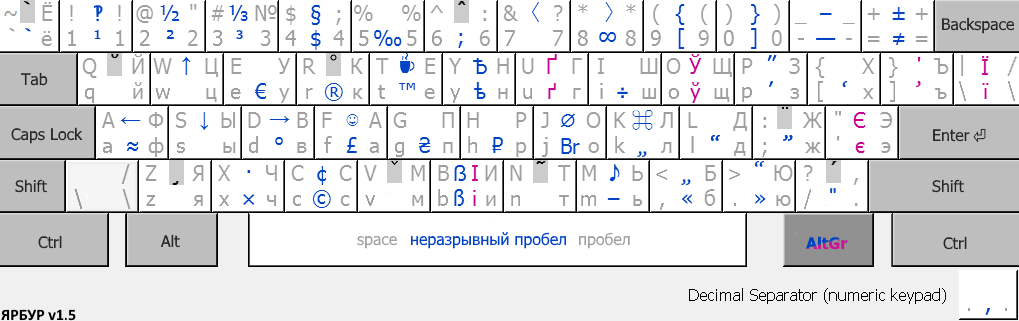
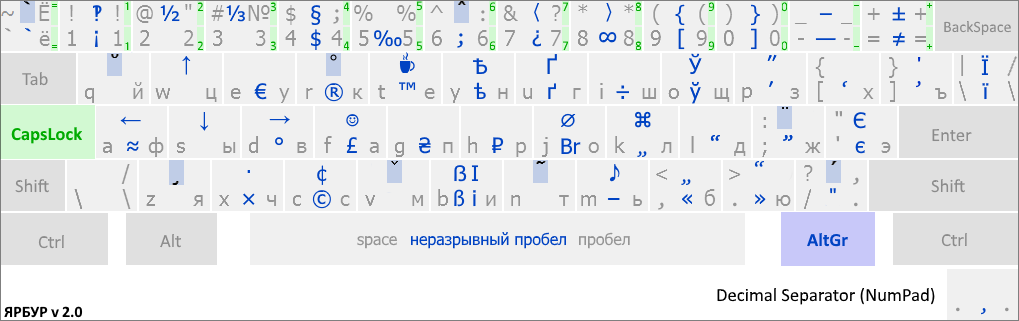
yarbur 2.0 & all date update

diff --git a/_includes/lightbox.html b/_includes/lightbox.html
@@ -14,9 +14,9 @@
 {% endif %}
 
 {% if image.thumb %}
-src="{{ page.imgfolder }}{{ image.thumb }}" alt="{{ image.text }} alt">
+src="{{ page.imgfolder }}{{ image.thumb }}" alt="{{ image.text }}">
 {% else %}
-src="{{ page.imgfolder }}{{ image.name }}" alt="{{ image.text }} alt">
+src="{{ page.imgfolder }}{{ image.name }}" alt="{{ image.text }}">
 {% endif %}
 </a>
 {% endif %}

diff --git a/_collection/yarbur.md b/_collection/yarbur.md
@@ -4,7 +4,7 @@ title: Раскладка клавиатуры ЯРБУР
 
 post_on_sidebar: true
 
-date: 2016-09-17
+date: 2017-03-02
 
 tag:
   - keyboard layout
@@ -15,7 +15,7 @@ tag:
 category:
   - projects
 
-version: 1.5
+version: 2.0
 
 
 
@@ -41,28 +41,29 @@ permalink: yarbur/
 <br>
 Символы, доступные через правый Alt (`AltGr`) называют третьим слоем, а через `AltGr` + `Shift` — четвёртым.
 
-* 1 слой — **н** = `н`
-* 2 слой — **Н** = `Shift` + `н`
-* 3 слой — **ѣ** = `AltGr` + `н`
-* 4 слой — **Ѣ** = `AltGr` + `Shift` + `н`
+* 1 слой — **с** = `с`
+* 2 слой — **С** = `Shift` + `с`
+* 3 слой — **©** = `AltGr` + `c`
+* 4 слой — **¢** = `AltGr` + `Shift` + `c`
 
 Раскладка содержит Тире (**—** = `AltGr` + `-`), символ рубля (**₽** = `AltGr` + `р`), «кавычки», знак градуса, знак копирайта и многие другие.
 
-Отдельным цветом на полной схеме раскладок выделены белорусские и украинские буквы: **Ў**, **І**, **Ґ**, **Ї**, **Є** и апострофы. Присутствуют символы гривны и белорусского рубля:
+Раскладка содержит белорусские и украинские буквы: **Ў**, **І**, **Ґ**, **Ї**, **Є** и апостроф. Присутствуют символы гривны и белорусского рубля:
 **₴**, **Br**.
+
+Подстрочные₄₊₅ и надстрочные⁴⁺⁵ цифры вводятся через `CapsLock`:
+
+* 5 слой — **₈** = `8` (при включённом `CapsLock`)
+* 6 слой — **⁸** = `Shift` + `8` (при включённом `CapsLock`)
 
 ### Как установить?
 
- * Для установки использовать *Install-Yarbur-En.exe* и *Install-Yarbur-Ru.exe*.<br>
-Затем в «настройках способов ввода» (*Панель управления/Язык* для Win10) можно удалять стандартные русскую и английскую раскладки. Перезагрузиться.
+ * Для установки последовательно запустить *Install-Yarbur-En.exe* и *Install-Yarbur-Ru.exe*.  
+Затем в «настройках способов ввода» (*Панель управления/Язык* для Win10) можно удалять стандартные русскую и английскую раскладки. **Перезагрузиться**.
  * Для удаления, сначала убрать из «настроек способов ввода», затем удалить из «установка и удаление программ» (*Панель управления/Программы и компоненты* для Win10).
- * Для обновления на новую версию сначала нужно удалить старую, и после установки новой версии не забыть перезагрузиться.
 
-За основу взята [**Типографская раскладка Ильи Бирмана v3.4**](http://ilyabirman.ru/projects/typography-layout/), на которую были добавлены белорусские и украинские буквы, и прочие полезные символы.
+За основу взята [**Типографская раскладка v3.4**](http://ilyabirman.ru/projects/typography-layout/), на которую были добавлены белорусские и украинские буквы, и прочие полезные символы.
 При помощи [**The Microsoft Keyboard Layout Creator**](https://msdn.microsoft.com/keyboardlayouts.aspx) можно создать свою или изменить эту раскладку.
-
-Все действия выполняются на свой страх и риск.
-
 
 ### Про апостроф и кавычки
 
@@ -70,7 +71,7 @@ permalink: yarbur/
 
 В качестве кавычек рекомендуется использовать «кавычки-ёлочки» ( `AltGr` + `<` и `AltGr` + `>`).
 
-Подробнее про все апострофы, одинарные и двойные кавычки, которые есть на раскладке, можно [**узнать тут**]({% link _collection/quotation-mark.md %}).
+Подробнее про апострофы, одинарные и двойные кавычки [**тут**]({% link _collection/quotation-mark.md %}).
 
 
 ### Про диакритические знаки
@@ -84,6 +85,13 @@ permalink: yarbur/
 Таких предопределённых букв [немного](https://github.com/yalov/yarbur-keyboard-layouts/blob/master/diacritical_mark.txt), и этот способ может не сработать. Если вам нужно просто поставить ударение, используйте первый способ. Если вы пишете Schrödinger, то второй.
 
 ### Про десятичный разделитель
-Обычно десятичный разделитель на цифровом блоке в русской раскладке — запятая, в английской — точка и нарисована на клавише тоже точка. Из-за этого возникает много путаницы.
+Обычно десятичный разделитель на цифровом блоке в русской раскладке — запятая, хотя в английской — точка и нарисована на клавише тоже точка. Из-за этого возникает много путаницы.
 
 Кто-то скажет, что в русской типографике исторически дробная часть отделяется запятой. Это верно, но, во-первых, многие русские авторы уже используют точку, и, во-вторых, ip-адрес и версия программы в любом случае разделяется именно точкой. Поэтому в раскладках клавиатуры ЯРБУР (и в русской, и в английской) **в качестве десятичного разделителя используется точка**, а в третьем слое (`AltGr`) — запятая.
+
+### Про CapsLock
+Начиная с версии 2.0 помимо `AltGr` перегружается ещё и `CapsLock`. Можно сказать, что это пятый и шестой слой (шестой — с `Shift`).
+
+На пятом слое находятся подстрочные  **₌₁₂₃₄₅₆₇₈₉₀₋₊**, на шестом — надстрочные **⁼¹²³⁴⁵⁶⁷⁸⁹⁰⁻⁺**. Буквы ведут себя КАК ОБЫЧНО.
+
+На третий и четвёртый слой клавиша `CapsLock` не влияет, т.е. © = `AltGr` + `с` = `CapsLock`, `AltGr` + `с`.

diff --git a/gem-versions.md b/gem-versions.md
@@ -1,7 +1,7 @@
 ---
 layout: page
-title: Dependency of github-pages gem
-description: "List dependency versions of GitHub Pages gem"
+title: Dependencies of github-pages gem
+description: "Dependencies of github-pages gem"
 ---
 <br>
 

diff --git a/_collection/work-schedule.md b/_collection/work-schedule.md
@@ -3,7 +3,7 @@ layout: post
 title: Work Schedule
 
 post_on_sidebar: true
-date: 2015-09-27
+date: 2016-09-27
 
 tag:
   - qt

diff --git a/_collection/eyes-thanks.md b/_collection/eyes-thanks.md
@@ -4,7 +4,7 @@ title: "Eyes' Thanks"
 
 post_on_sidebar: true
 
-date: 2016-04-24
+date: 2017-02-16
 tag:
   - qt
   - С++

diff --git a/about.md b/about.md
@@ -1,7 +1,7 @@
 ---
 layout: page
 title: About
-on_sidebar_bottom: true
+on_sidebar_bottom: false
 ---
 
 Man.
